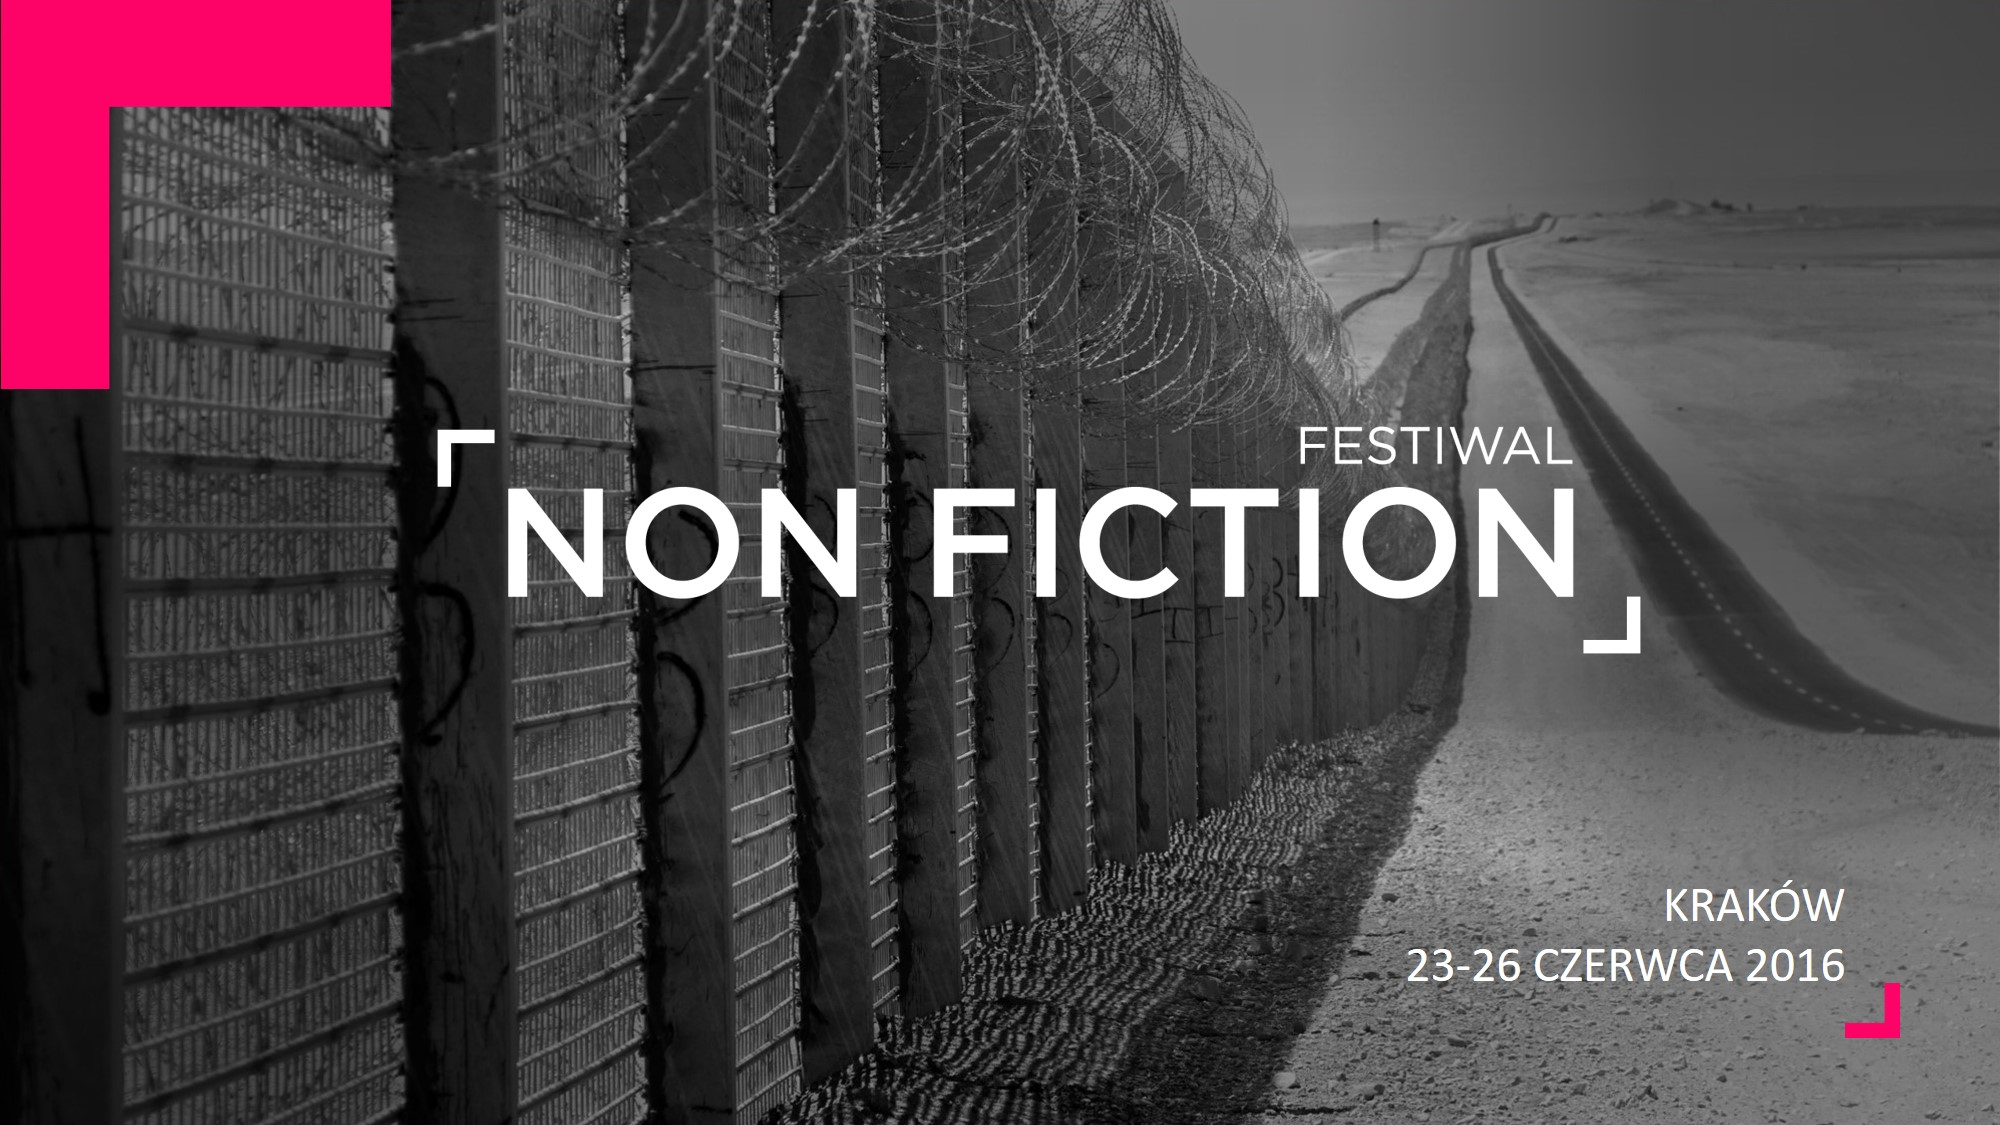
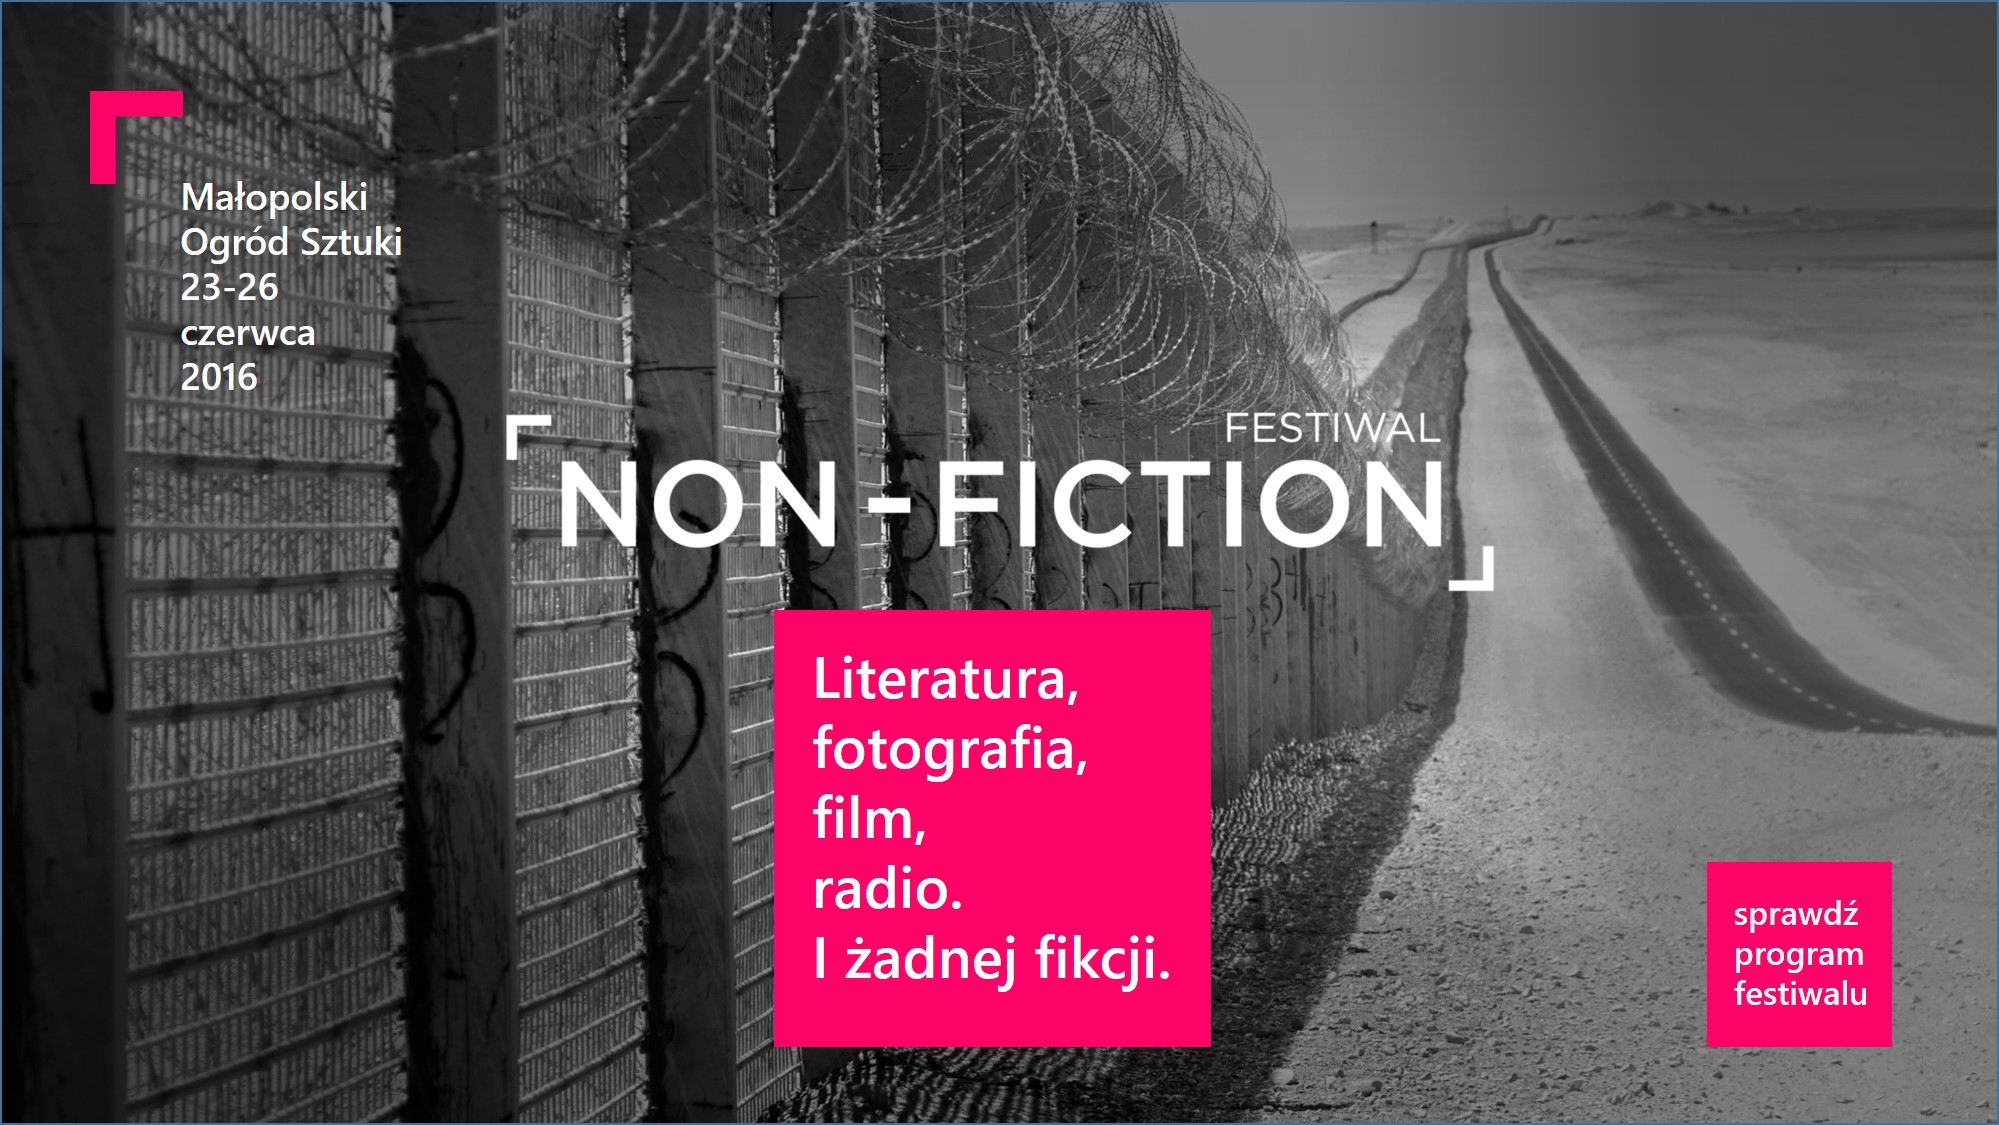
photo & button changed

diff --git a/index.html b/index.html
@@ -16,8 +16,8 @@
 <div style="position:relative">
 	<img src="non-fiction.jpg" alt="non-fiction" height="100%" width="100%">
 		<a href="http://www.festiwalnonfiction.pl/#program">
-			<button style="position: absolute; left: 400px; width: 220px; font-family: Signika; background-color: rgb(253, 3, 103); top: 450px; font-size: 15pt; height: 50px; color: white;">
-				SPRAWDŹ PROGRAM
+			<button style="position: absolute; left: 1170px; width: 135px; font-family: Signika; background-color: rgb(253, 3, 103); top: 590px; font-size: 15pt; height: 150px; color: white;">
+				sprawdź program festiwalu
 			</button>
 		</a>
 </div>
